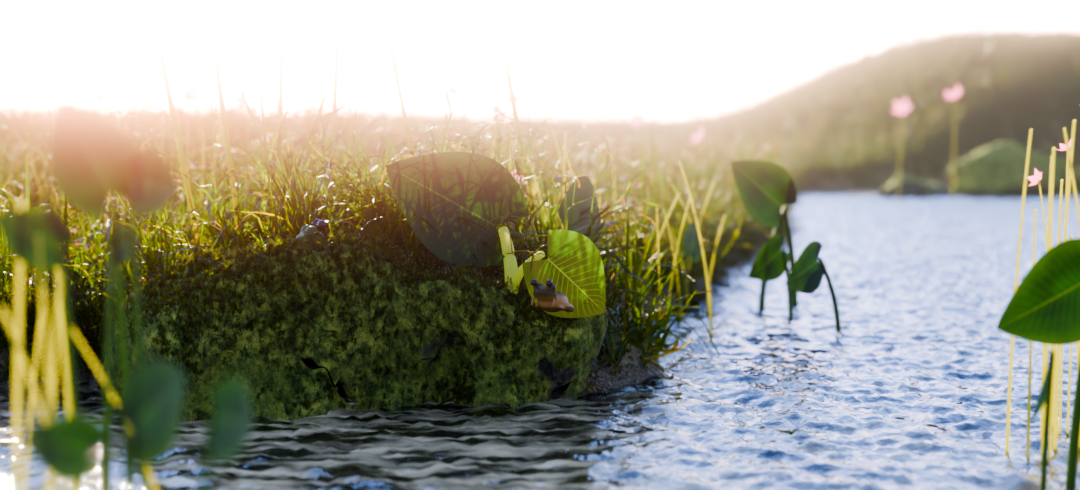
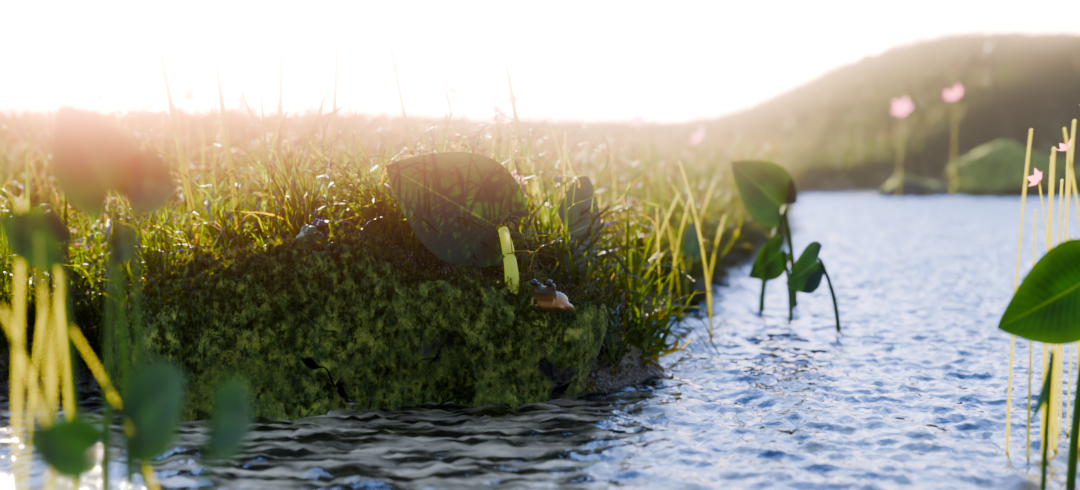
Creek scene: drop the bright backlit leaf on the rock
Claude-Session: https://claude.ai/code/session_01K2jeMQuhDLuDxGG8CNrseQ

Changed region(s): [[0.4583, 0.4592, 0.5806, 0.6735], [0.4583, 0.8878, 0.5806, 1.0]]

diff --git a/tools/creek/build_scene.py b/tools/creek/build_scene.py
@@ -1054,28 +1054,17 @@ p2 = unproject(553, 350, 0.98)
 frog("frog_top", on_rock(p1.x, p1.y), -70, 0.048, "frog_green_color.png")
 frog("frog_edge", on_rock(p2.x, p2.y), 150, 0.03, "frog_brown_color.png")
 
-# one taro plant growing out of the rock: a single stem base, two big leaves (as in the reference)
+# a taro plant growing out of the rock
 _root = unproject(512, 318, 1.0)
 _root = on_rock(_root.x, _root.y + 0.02)
 _s1, _ = taro(445, 197, 1.05, 150, 150, 25, lean=0.0, base_at=lambda gx, gy: _root, stem_scale=1.15)
-_s2, _lit = taro(582, 287, 1.0, 115, -40, 20, lean=0.0, base_at=lambda gx, gy: _root, stem_scale=1.1)
-# the right leaf glows yellow with the sun behind it
-_lit_mat = leaf_mat.copy()
-for _n in _lit_mat.node_tree.nodes:
-    if _n.type == "MATH" and _n.operation == "MULTIPLY":
-        _n.inputs[1].default_value = 0.95
-_lnt = _lit_mat.node_tree
-_lb = next(n for n in _lnt.nodes if n.type == "BSDF_PRINCIPLED")
-_lb.inputs["Emission Color"].default_value = (0.75, 0.8, 0.12, 1)
-_lb.inputs["Emission Strength"].default_value = 0.3
-_lit.data.materials[0] = _lit_mat
 # the plant's stems: yellow-green, sunlit through
 _stem_lit = stalk_mat.copy()
 _sb = next(n for n in _stem_lit.node_tree.nodes if n.type == "BSDF_PRINCIPLED")
 _sb.inputs["Base Color"].default_value = (0.5, 0.62, 0.12, 1)
 _sb.inputs["Emission Color"].default_value = (0.55, 0.65, 0.1, 1)
 _sb.inputs["Emission Strength"].default_value = 0.2
-for _s in (_s1, _s2):
+for _s in (_s1,):
     _s.data.materials[0] = _stem_lit
 
 
